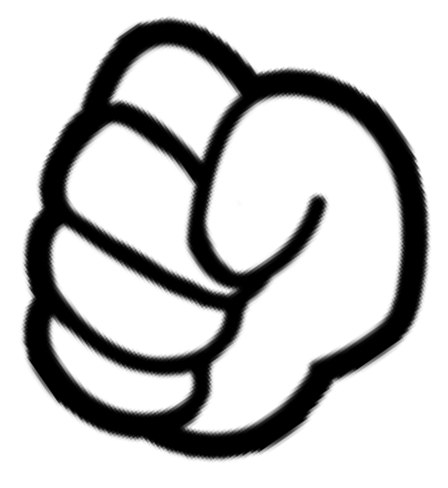
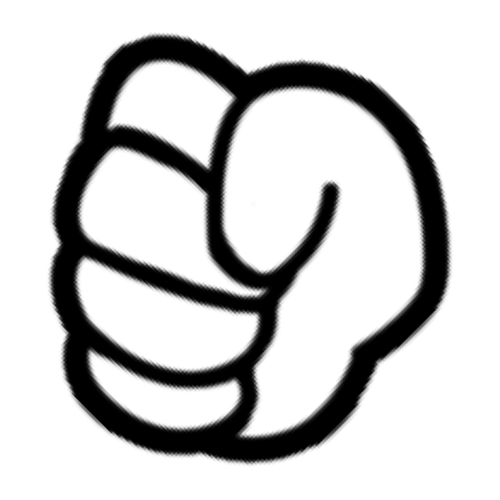
adicionando as imagens corretas e configurando a borda

Changed region(s): [[0.0312, 0.0307, 0.9688, 0.9529], [0.625, 0.7992, 0.6562, 0.8299]]

diff --git a/style.css b/style.css
@@ -74,10 +74,21 @@ body {
     width: 180px;
     height: 180px;
     padding: 24px;
-    border: 15px solid #cf2d38;
     border-radius: 50%;
     cursor: pointer;
     background-color: #FFFFFF;
+}
+
+.container .game .button-screen .box #rock {
+    border: 15px solid #3993dd;
+}
+
+.container .game .button-screen .box #paper {
+    border: 15px solid #cf2d38;
+}
+
+.container .game .button-screen .box #scissor {
+    border: 15px solid #ead94c;
 }
 
 .container .game .box button img {
